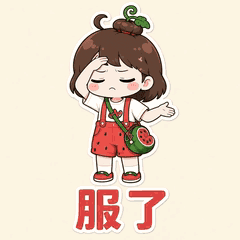
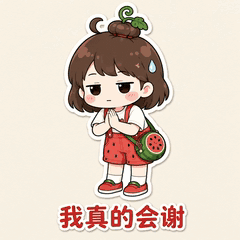
feat: 小拳拳捶你 and 我真的会谢

Changed region(s): [[0.2333, 0.0, 0.7875, 0.9917]]

diff --git a/src/lib/packs.ts b/src/lib/packs.ts
@@ -235,8 +235,8 @@ export const PACKS: Pack[] = [
       { id: "flick", name: "无语", motion: "deadpan" },
       { id: "stomp", name: "踩你", motion: "stomp" },
       { id: "throw", name: "滚", motion: "point out" },
-      { id: "hammer", name: "捶你", motion: "bat tap" },
-      { id: "glare", name: "服了", motion: "facepalm" },
+      { id: "hammer", name: "小拳拳捶你", motion: "bat tap" },
+      { id: "glare", name: "我真的会谢", motion: "facepalm" },
       { id: "hmph", name: "哼", motion: "hmph" },
       { id: "tantrum", name: "气死我了", motion: "lying tantrum" },
       { id: "angry", name: "生气", motion: "angry" },
@@ -290,11 +290,11 @@ export const PACKS: Pack[] = [
 ];
 
 export function stickerGif(packId: string, stickerId: string) {
-  return `/stickers/${packId}/${stickerId}.gif?v=92`;
+  return `/stickers/${packId}/${stickerId}.gif?v=93`;
 }
 
 export function stickerPng(packId: string, stickerId: string) {
-  return `/stickers/${packId}/${stickerId}.png?v=92`;
+  return `/stickers/${packId}/${stickerId}.png?v=93`;
 }
 
 export function getPack(id: string) {
